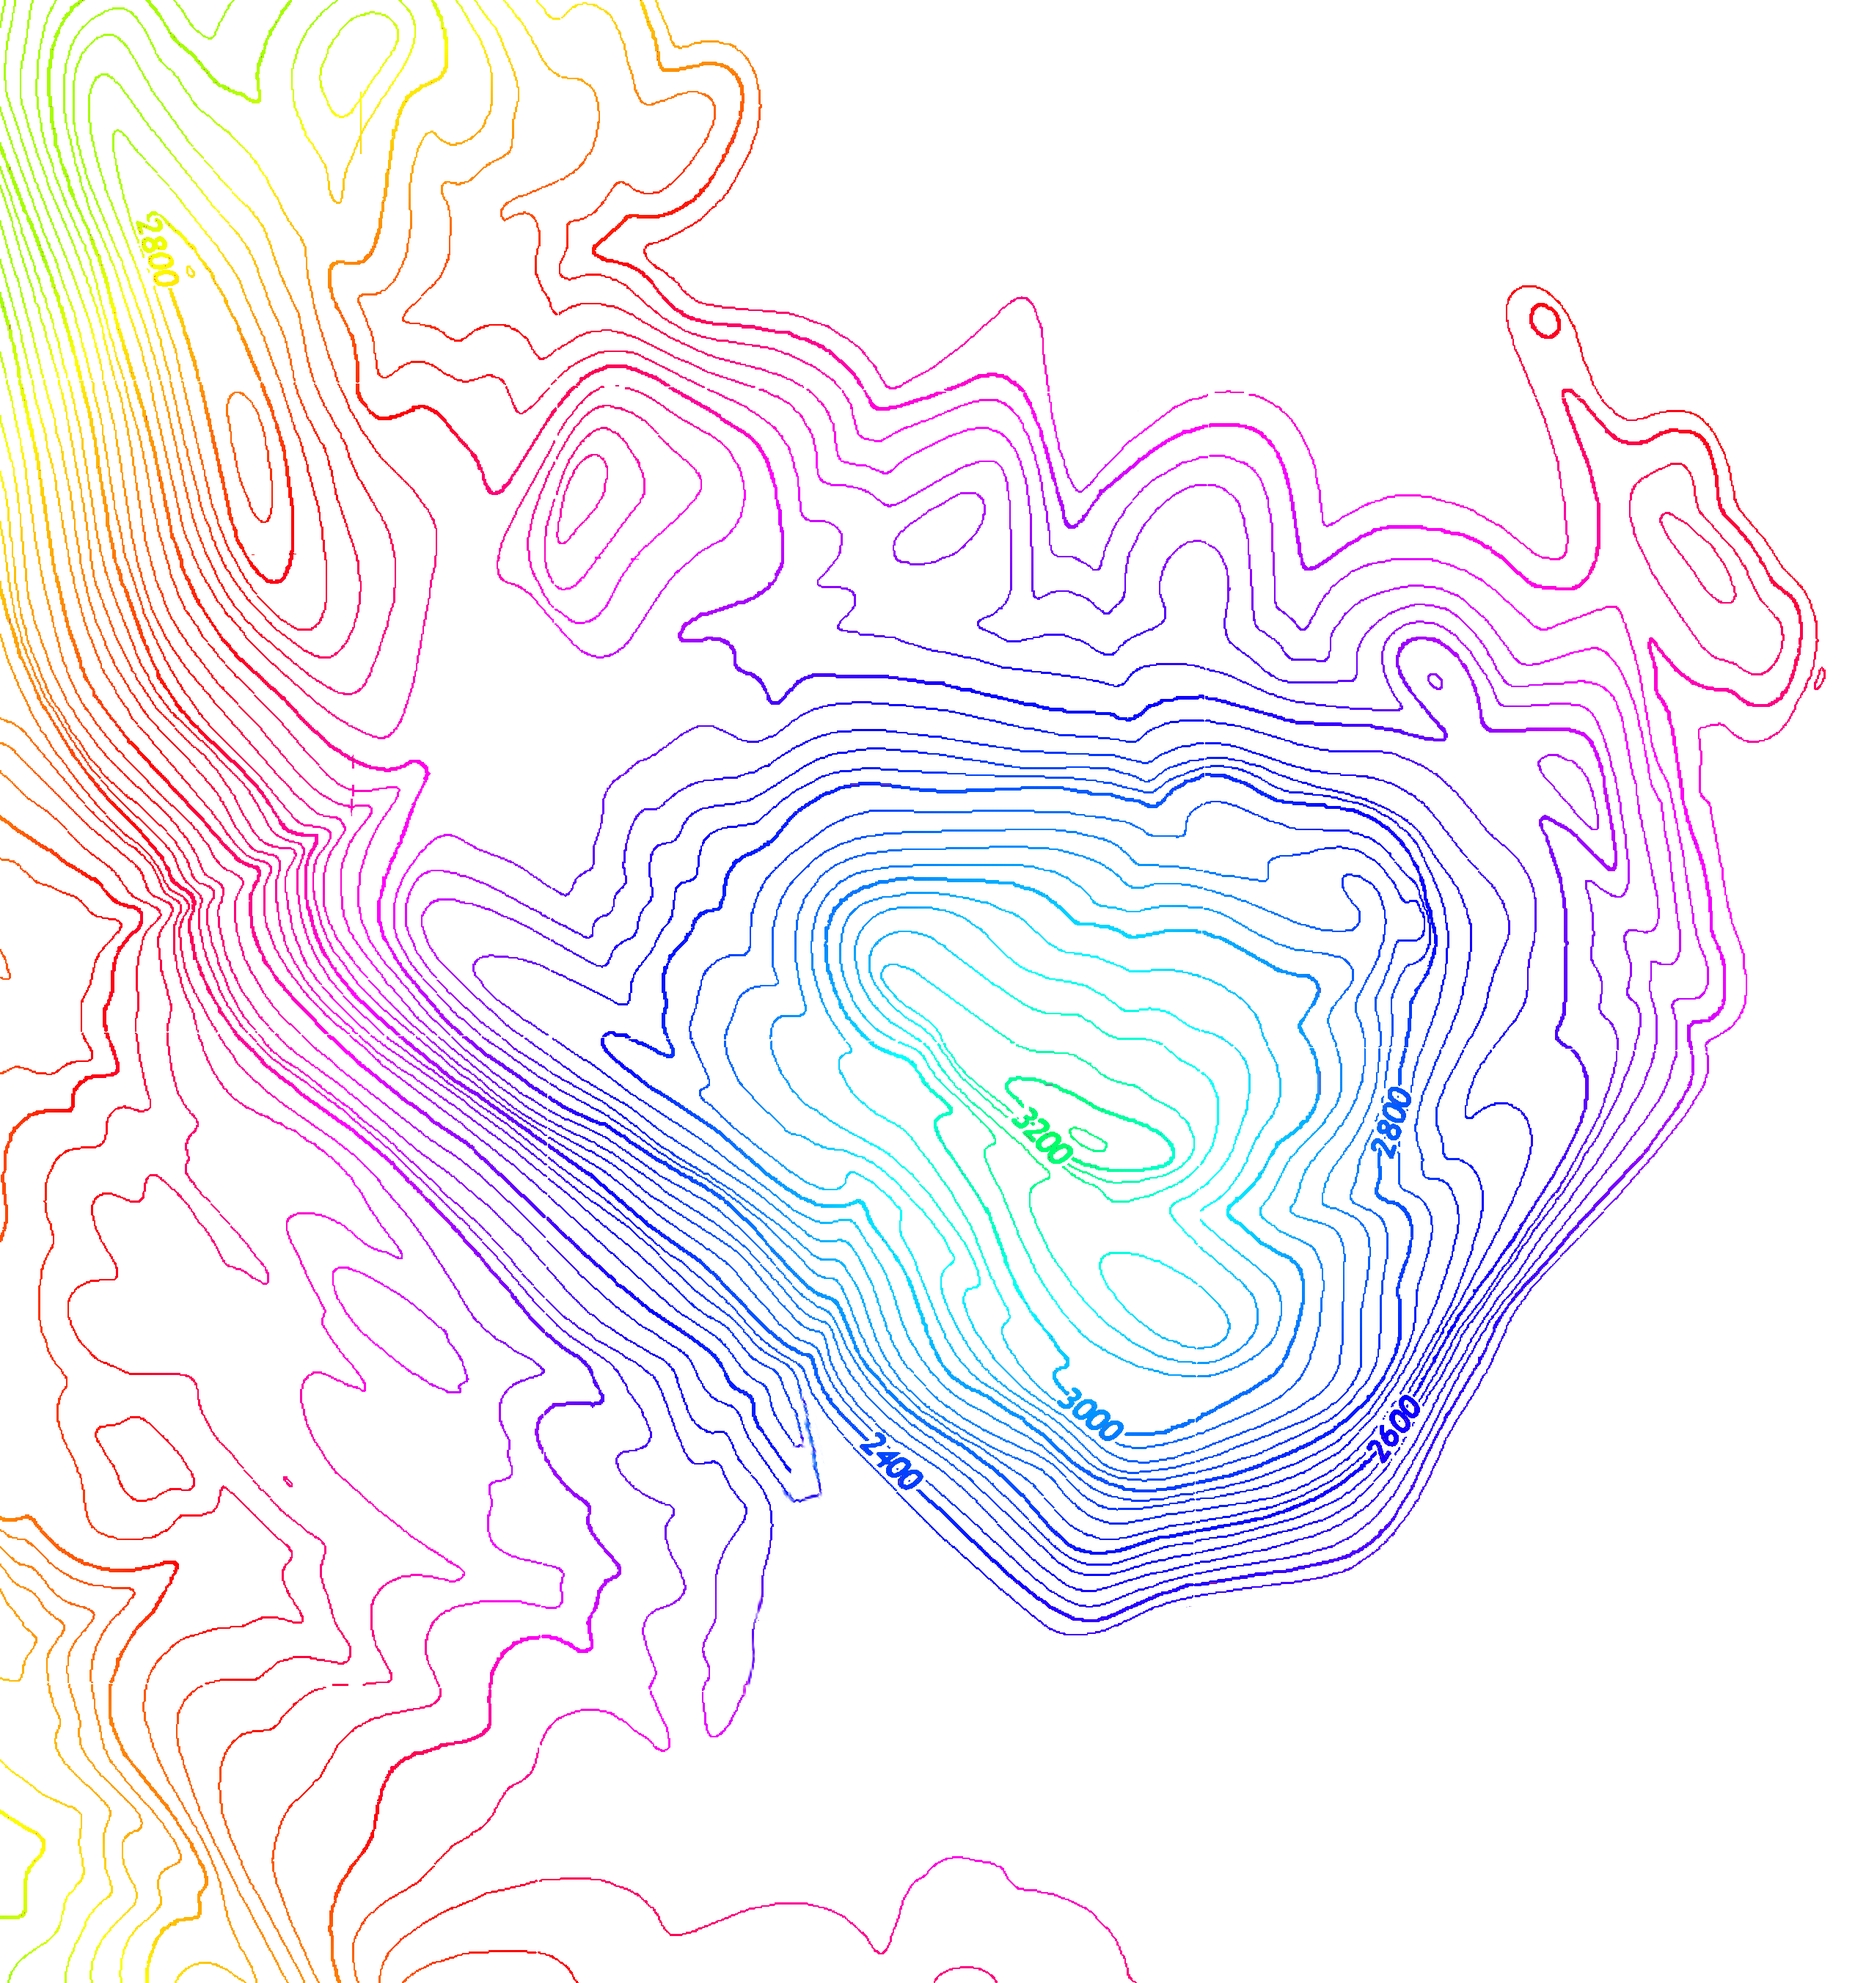
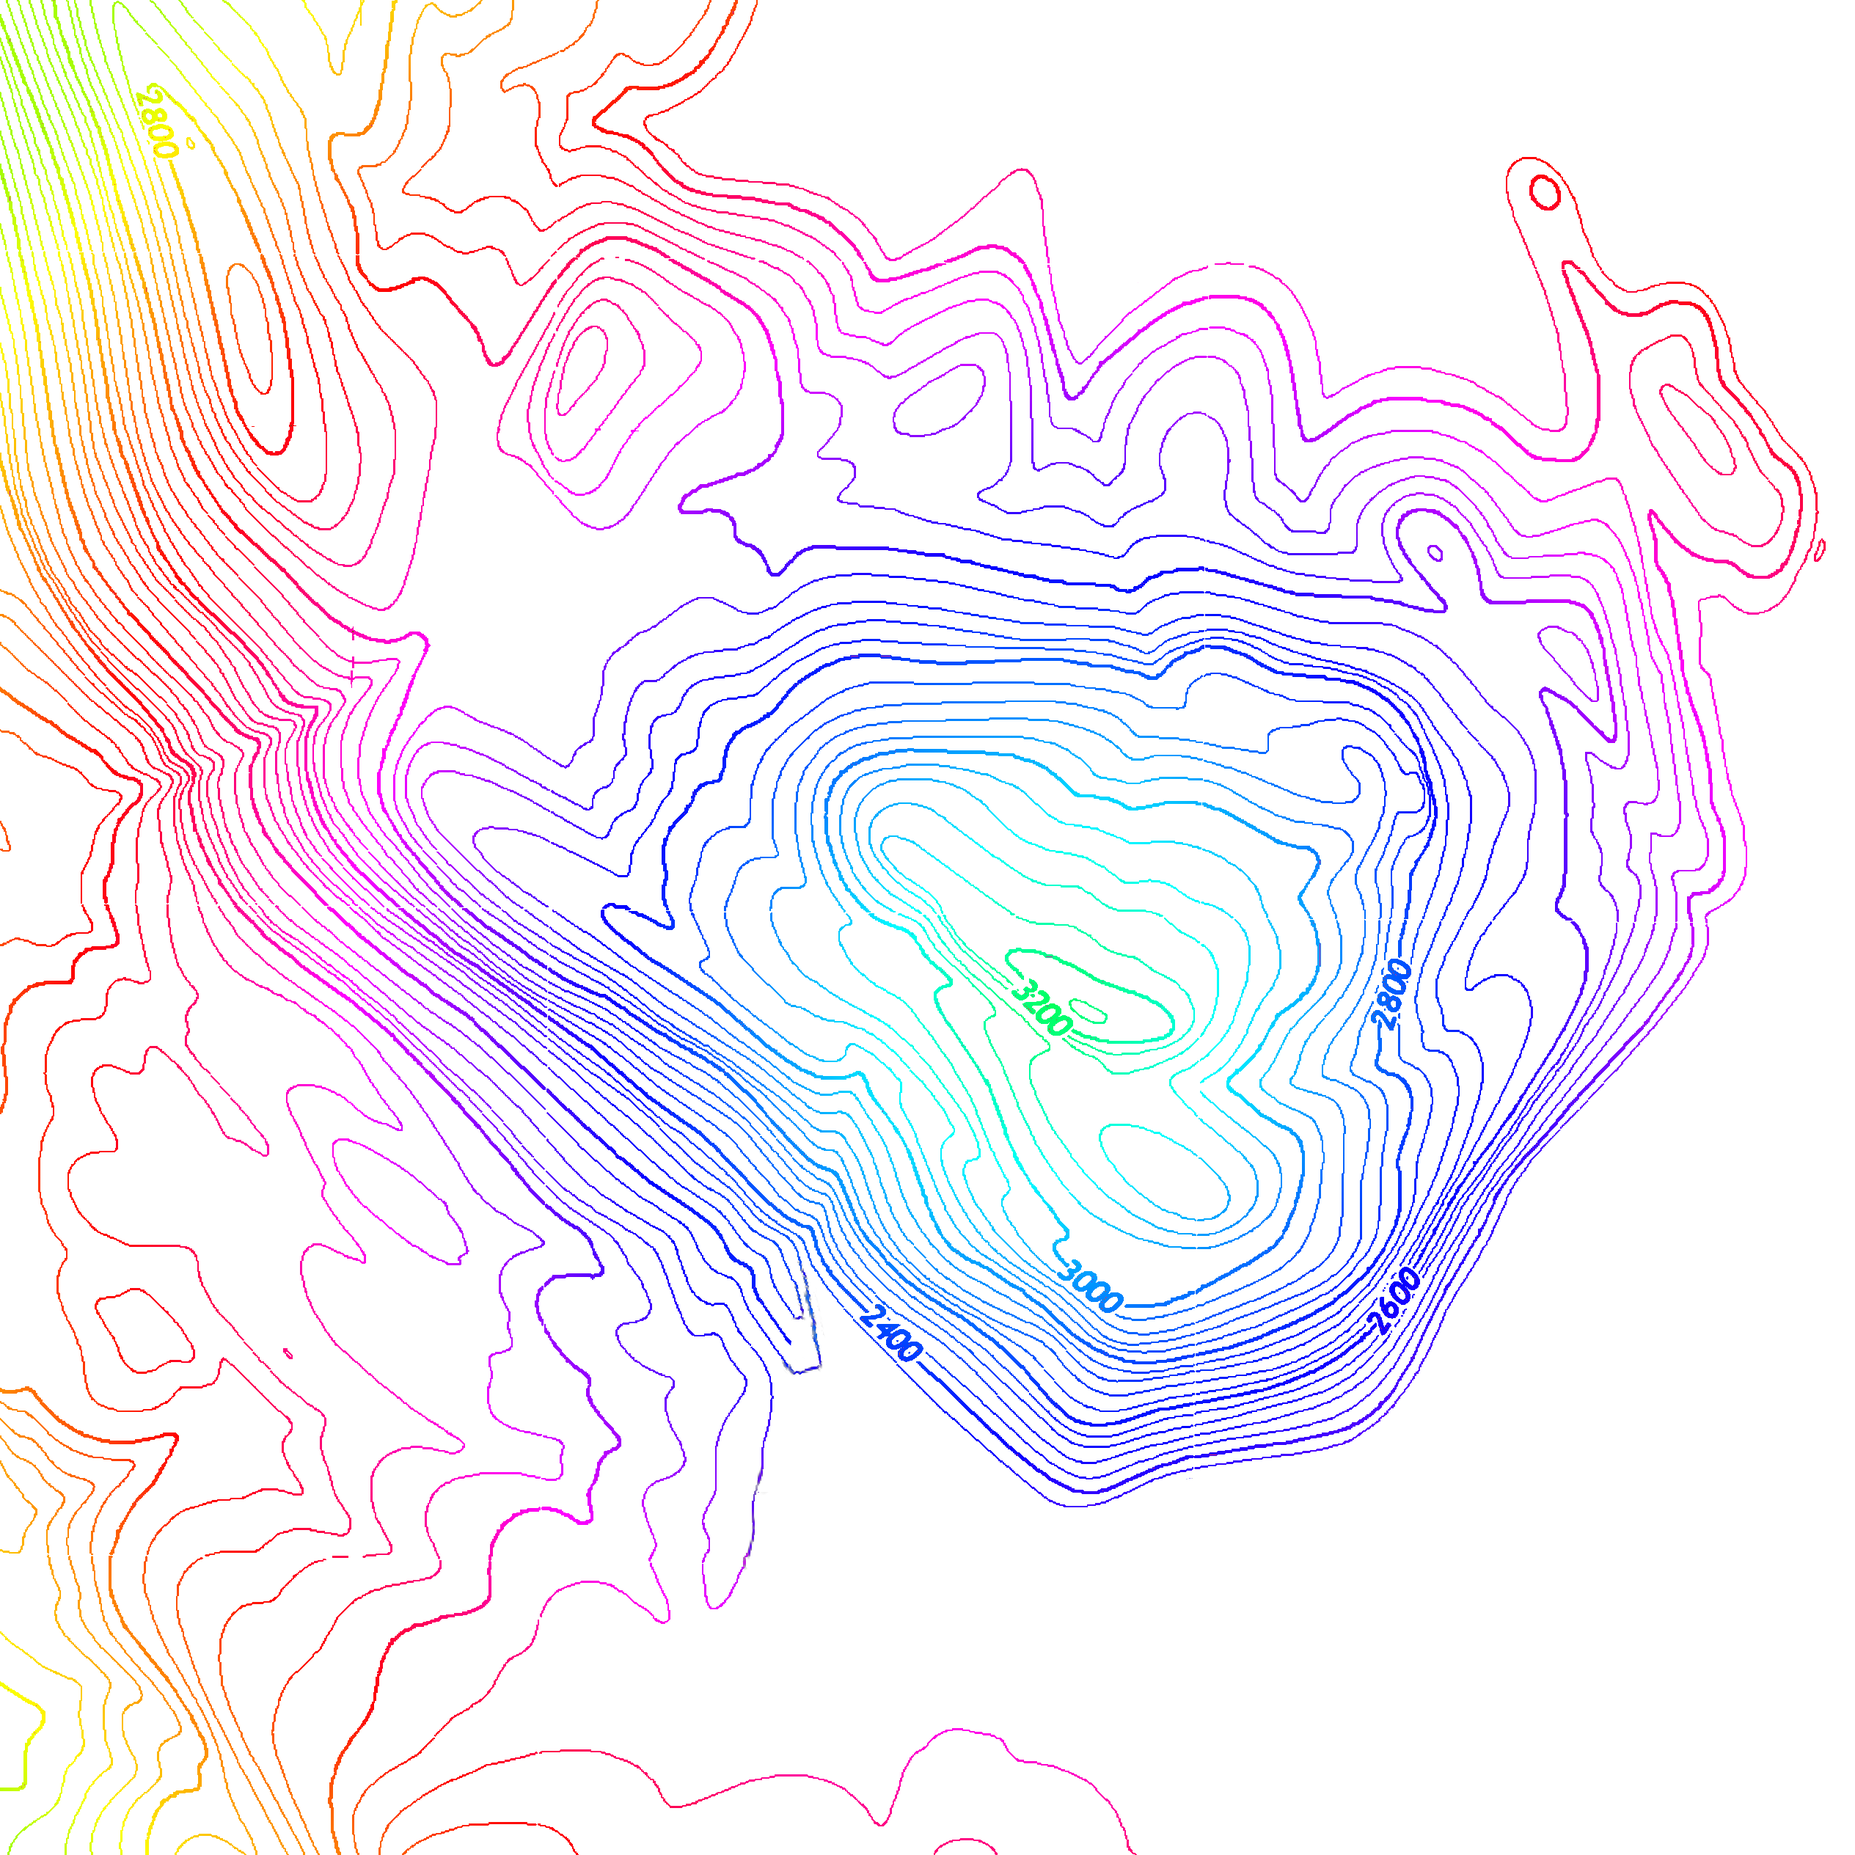
css background changes color too

diff --git a/src/styles.css b/src/styles.css
@@ -1,11 +1,13 @@
 .pane{
     height: 100vh;
     padding-top: 100px;
-    color: white;
+    color: #FFFFF0;
+    /*font-weight: bold;*/
+    font-size: 20px;
 }
 .right_pane{
     flex:1;
-    color: white;
+    color: #FFFFF0;
     overflow: auto;
 }
 .right_pane::-webkit-scrollbar {
@@ -34,15 +36,17 @@ a{
  }
 
 .skill_div{ /* Set a fixed width for each item */
-    height: 25px;
+    height: 30px;
     min-width: 50px;/* Set a fixed height for each item */
     border: 2px solid #333; /* Border style */
-    border-radius: 10%; /* Make the item round by setting border-radius to 50% */
+    border-radius: 9999px; /* Make the item round by setting border-radius to 50% */
     display: flex;
     align-items: center;
     justify-content: center;
-    font-size: 10px;
-    font-weight: bold;
+    font-size: 16px;
+
+
+    /*font-weight: bold;*/
 }
 .invisible_bullet{
     list-style-type: none;
@@ -53,19 +57,66 @@ a{
     width: 60px;
 }
 .background_color_div{
-    background: linear-gradient(to bottom, #080814,#1a1a33);
+    /*background: linear-gradient(to bottom, #080814,#1a1a33);*/
 }
 .background{
     background:
-            url("/public/test4.png"),
-            url("/public/test5.png"),
+            url("/public/test7.png"),
+            /*url("/public/test6.png"),*/
             linear-gradient(to bottom, #080814,#1a1a33);
-    background-size: 90vw 100vh, 70vw 70vh;
+    background-size: auto 120%, 100% 100%;
     background-repeat: no-repeat;
-    background-position: -36vw 60px, 60vw -30vw;
+    background-position: -10vw 0px, 0px 0px;
 
     /*background-position: top right;*/
     /*background: linear-gradient(to bottom, #1a1a1a, #080808);*/
 
     /*background-position: center 500px;*/
+}
+.right_bg_img{
+
+    position: fixed;
+    top: -10%;
+    left: 75%;
+    height:70%; /* Adjust the width as needed */
+    /*z-index: 1000; !* Adjust the z-index as needed *!*/
+}
+.bg_yellow{
+    background-color: #FDE725;
+}
+.bg_orange{
+    background-color: #f9993e;
+}
+
+.bg_darkp{
+    background-color: #440154;
+}
+.bg_darkb{
+    background-color: #21068f;
+
+}
+.bg_midp{
+
+    background-color: #cf1c3d;
+}
+.bg_midm{
+    background-color: #ba1885;
+}
+.name_text{
+    font-size: 8vh;
+ }
+.svg_items{
+    padding-left: 0px;
+    padding-right: 50px;
+}
+.sub_text{
+    /*padding-left: 0px !important;*/
+    font-size: 3vh;
+}
+.sub_sub_text{
+    /*padding-left: 0px !important;*/
+    font-size: 2vh;
+}
+.name_div{
+    margin: 0px !important;
 }

diff --git a/src/Bio.jsx b/src/Bio.jsx
@@ -4,18 +4,27 @@ import './styles.css'
 function Bio() {
     return (
         <div className="d-flex col-md-6 text-left flex-column justify-content-between pane">
-            <div className={"row "}>
-                <h1 className={"test"}>
+            <div className={"row name_div"}>
+                <div className="row name_text ">
+
                     {config.name}
-                </h1>
-                <h3>{config.title}</h3>
-                <h3>{config.subhead}</h3>
+                </div>
+                <div className="row sub_text">
+
+                    {config.title}
+                </div>
+                <div className="row sub_sub_text">
+                    {config.subhead}
+                </div>
+
+
+
             </div>
             <div className={"row pb-5"}>
             </div>
 
-            <ul className="invisible_bullet d-flex mr-0 flex-row" aria-label="Social media">
-                <li className=""><a className=""
+            <ul className="invisible_bullet d-flex flex-row p-0 " aria-label="Social media">
+                <li className="svg_items"><a className=""
                                                 href="https://github.com/JacobCDuBois/resumev3.git" target="_blank"
                                                 rel="noreferrer">
                     <svg xmlns="http://www.w3.org/2000/svg" viewBox="0 0 16 16" fill="currentColor" className="logo_img"
@@ -25,7 +34,7 @@ function Bio() {
                     </svg>
                 </a></li>
 
-                <li className=""><a className=""
+                <li className="svg_items"><a className=""
                                                 href="https://www.linkedin.com/in/jacob-dubois-8778551a7" target="_blank"
                                                 rel="noreferrer">
                     <svg xmlns="http://www.w3.org/2000/svg" viewBox="0 0 24 24" fill="currentColor" className="logo_img"

diff --git a/src/Config.js b/src/Config.js
@@ -1,7 +1,7 @@
 const config ={
     website_desc:"This site was created using React, HTML, and CSS using libraries like Bootstrap and hosted using Digital ocean",
     name:"Jacob DuBois",
-    title: "Data Analyst and Software Developer",
+    title:"Data Analyst and Software Developer",
     subhead:"I build tools and websites",
     bio:"Back in 2010, I got addicted to an online Pokemon game where I taught myself Markup, CSS, and HTML to contribute in the online forums and" +
         "I unwittingly fell head first into the world of coding and web development. In high school I would take college courses in software development and statistics where I" +

diff --git a/src/skill.jsx b/src/skill.jsx
@@ -1,8 +1,23 @@
 import React from "react";
 
-function Skill({skill_type}){
-    return <div className={"skill_div p-1"}>
-        {skill_type}
+function Skill({skill_type, color}){
+    var bg_color = () =>{
+        switch (color%4){
+            case 1:
+                return "bg_darkb"
+            case 2:
+                return "bg_midm"
+            case 3:
+                return "bg_orange"
+            default:
+                return "bg_darkp"
+
+        }
+    }
+
+
+    return <div className={"skill_div p-1 " + bg_color()}>
+        <div className="p-1">{skill_type}</div>
     </div>
 };
 export default Skill;

diff --git a/src/Job.jsx b/src/Job.jsx
@@ -17,7 +17,7 @@ function Job({description}){
                 </div>
                 <div className="row ">
                     <div className={"justify-content-start flex-wrap skill_container"}>
-                        {description.skills.map((skill, index) => (<Skill key={index} skill_type={skill}></Skill>))}
+                        {description.skills.map((skill, index) => (<Skill key={index} skill_type={skill} color={index}></Skill>))}
                     </div>
 
                 </div>

diff --git a/src/App.js b/src/App.js
@@ -14,6 +14,9 @@ function App() {
       </header>
         <div className={"background_color_div"}>
         <body className="background">
+        <div>
+            <img className="right_bg_img" src="/test6.png"></img>
+        </div>
         <div className="container d-flex" >
             <div className="d-flex row justify-content-evenly w-100 ">
                 <Bio>
